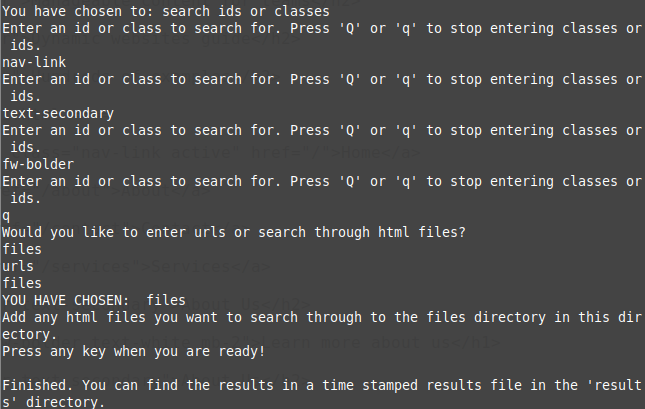
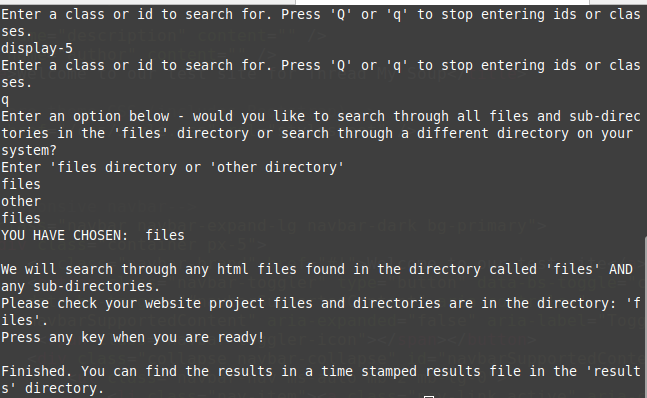
File traverse version added

Changed region(s): [[0.0, 0.0, 1.0, 1.0], [0.6512, 0.995, 0.6822, 1.0]]

diff --git a/classes/filesearcher.py b/classes/filesearcher.py
@@ -3,13 +3,12 @@ from classes.helper.threadstarter import ThreadStarter
 import os
 
 class FileSearcher:
-    def __init__(self, main_inputs_menu, items_to_search_for, directory_to_search="files directory"):
+    def __init__(self, menu_option, items_to_search_for, directory_to_search="files"):
         self.file_handler = FileHandler()
         self.thread_starter = ThreadStarter()
-
         self.directory_to_search = directory_to_search
-
-        self.main_inputs_menu = main_inputs_menu
+        self.menu_option = menu_option
+        self.items_to_search_for = items_to_search_for
 
         self.print_add_files_message()
 
@@ -18,41 +17,49 @@ class FileSearcher:
         else:
             self.files = self.file_handler.return_files_from_other_dir_or_close_program(self.directory_to_search)
 
-        self.items_to_search_for = items_to_search_for
-
         self.file_handler.check_exists_or_make_results_dir()
         self.results_file_name = self.file_handler.create_timestamped_results_file()
 
         self.thread_starter.start_threads(self.search, self.files)
         self.print_search_finished_message()
 
-    def print_add_files_message(self):
-        print(f"\nWe will search through any html files found in the directory called '{self.directory_to_search}' AND any sub-directories.")
-        print(f"Please check your website project files and directories are in the directory: '{self.directory_to_search}'.")
-        print("Press any key when you are ready!")
-        any_key = input()
+    def print_error_stop_thread(self, obj, error_message):
+        if obj == False:
+            print(error_message)
+            self.thread_starter.lock.release()
+            return True
+        return False
+
+    def stop_thread_invalid_file(self, file):
+        try:
+            is_file = os.path.isfile(file)
+            if is_file == False:
+                print(f"{file} is not a valid file. Unable to open.")
+                self.thread_starter.lock.release()
+                return True
+            return False
+        except:
+            print(f"{file} is not a valid file. Unable to open.")
+            self.thread_starter.lock.release()
+            return True
+
 
     # Passed to self.thread_starter.start_threads in __init__
     def search(self, file):
         self.thread_starter.lock.acquire()
 
-        if os.path.isfile(file) == False:
-            print(f"{file} is not a valid file. Unable to open.")
-            self.thread_starter.lock.release()
+        if self.stop_thread_invalid_file(file) == True:
             return
-   
-        soup = self.file_handler.parse_file(file)
         
-        if soup == False:
-            print(f"Could not retrieve data from {file} file.")
-            self.thread_starter.lock.release()
-            return
+        soup = self.file_handler.parse_file(file)
 
-        result_lists = self.main_inputs_menu.get_result_lists_based_on_menu_option(soup, self.items_to_search_for)
+        if self.print_error_stop_thread(soup, f"Unable to parse the file {file}") == True:
+            return 
 
-        if result_lists == False:
-            print(f"Could not retrieve items from this file: {file}")
-            self.thread_starter.lock.release()
+        # search functions per menu_option found in classes.helper.elementretriever
+        result_lists = self.menu_option['search_function'](soup, self.items_to_search_for)
+
+        if self.print_error_stop_thread(result_lists, f"Unable to retrieve results from the file: {file}") == True:
             return
                         
         self.file_handler.append_file_results(result_lists, file, self.results_file_name)
@@ -61,4 +68,10 @@ class FileSearcher:
 
     def print_search_finished_message(self):
         print("Finished. You can find the results in a time stamped results file in the 'results' directory.")
+
+    def print_add_files_message(self):
+        print(f"\nWe will search through any html files found in the directory called '{self.directory_to_search}' AND any sub-directories.")
+        print(f"Please check your website project files and directories are in the directory: '{self.directory_to_search}'.")
+        print("Press any key when you are ready!")
+        any_key = input()
 

diff --git a/threadmysoup.py b/threadmysoup.py
@@ -37,11 +37,11 @@ if __name__ == "__main__":
 	args = Args(menu_options)
 	menu_option = args.return_menu_option_or_print_args_incorrect()
 
-	# Which items to search
+	# User inputs words, ids, classes or html tags to search
 	user_input = UserInput(menu_option)
 	items_to_search_for = user_input.ask_user_for_inputs()
 
-	# Option - Search the 'files' dir OR traverse another directory
+	# User chooses which directory to traverse - 'files' dir OR another directory
 	search_files_dir_or_other_dir = user_input.ask_user_for_preference(
 		["files", "other"], 
 		"Enter an option below - would you like to search through all files and sub-directories in the 'files' directory or search through a different directory on your system?\nEnter 'files directory or 'other directory'"

diff --git a/classes/helper/filehandler.py b/classes/helper/filehandler.py
@@ -20,7 +20,7 @@ class FileHandler:
 
     def parse_file(self, file_name):
         try:
-            with open(file_name, 'r') as file:
+            with open(file_name, "r") as file:
                 soup = BeautifulSoup(file.read(), "html.parser")
                 return soup
         except:
@@ -112,4 +112,5 @@ class FileHandler:
     def clear_temp_file(self):
         with open("temp.txt", "w") as file:
             file.write("")
+
 

diff --git a/classes/userinput.py b/classes/userinput.py
@@ -1,0 +1,9 @@
+from classes.base.userinputbase import UserInputBase
+
+class UserInput(UserInputBase):
+    def __init__(self, option):
+        self.option = option
+        super(UserInput, self).__init__(
+            option['enter_input_message'],
+            option['blank_input_message']
+        )

diff --git a/README.md b/README.md
@@ -1,44 +1,42 @@
 # Thread My Soup
 
 ## INTRO
-This handy tool lets users search for words or phrases, class or ids and search for and retrieve any html element in urls from their live websites or from any number of html files, using the requests, Beautiful Soup and Threading modules.
+This handy tool lets users search for and retrieve words or phrases, classes or ids and any html elements from any number of html files, using the Beautiful Soup and Threading modules.
+
+Imagine you wanted to traverse through the directory storing all of your web development projects checking a specific html element, checking the spelling of a word, such as an address or customer name, or even inspecting elements with a specific id or class name. This program helps you to find specific elements from a large number of files by traversing large directories on your system.
 
 All results are saved into the results directory in a timestamped results file.
 
 ## FEATURES
 ### Menu
 - Args - the first menu allows the user to run the program with args to search words, search for classes or ids or search for specific html tags or elements.
-- The second part of the menu asks the user to enter inputs to search for, based upon their choice from the main args menu above.
-- The final part of the menu asks the user to search through files or urls and then either prompts the user to ensure they have files in the 'files' dir or prompts the user to enter mutiple urls to search through.
+- The second part of the menu asks the user to search through a directory called 'files' or the user can input any file on their system to traverse through every html file looking for the given elements.
+- The final part of the menu asks the user to input the name of any directory on their system that they wish to search through to find elements. 
 
-### Base classes (inheritance)
-- The 'MainInputsMenu' and 'UrlInputsMenu' classes inherit from the 'UrlInputBase' class.
+### Base classes 
+- The 'UserInputBase' class is inherited by the 'UserInput' class which is instantiated in the main 'threadmysoup.py' file, giving the user the menu options required to choose type of search and where to search.
 
-### Helper classes (composition)
-- Instances of the helper classes are all created and used by the 'FileSearcher', 'UrlSearcher' and 'Args' classes.
-- Methods from the helper classes 'ElementFinder', 'ThreadStarter', 'CommandLineArgs' and 'UrlHandler' are used in multiple classes allowing for code re-use.
+### Helper classes
+- Instances of the helper classes are all created and used by the 'FileSearcher' and 'Args' classes.
+- Methods from the helper classes 'ElementFinder', 'ThreadStarter', 'CommandLineArgs' and 'File Handler' are used in multiple classes allowing for code re-use.
 
 - The idea is to allow extension of the program by having loosely coupled relationships between classes.
 
 ### Extendable
-The program can be extended to add a new menu option and a search html method added by extending:
-- Args
-  - A new args menu option can be added to the 'menu_options' dictionary
+The program can be extended to add a new menu option in the 'menu_options' dictionary in the 'thread_soup.py' file.
+A new method can be added to the 'ElementFinder class'. (See below)
 
-- ElementFinder 
-  - A new method can be added to retrieve any type of filtered results from an html page or file.
+![mainmenupage](https://github.com/richardgourley/thread-my-soup/blob/main/screenshots/threadmysoupmainmenu.png)
 
-- MainInputsMenu
-  - The new menu option can be added to the init method.
-  - The new menu option can be updated in the 'get_result_lists_based_on_menu_option' method.
+- The preferences option in 'threadmysoup.py' could easily be extended to use the requests library and find and check elements from the users live websites.
 
 ### Search
 - The search utilizes threading to search multiple urls at the same time.
-- The search uses the requests and BeautifulSoup libraries.
+- The search uses the BeautifulSoup library.
 
 ### Results File
 - A time and date stamped results file is added to a 'results' directory after every search.
-- There is a ===END OF URL=== or a ==== END OF FILE==== marking to separate results from each url or file.
+- There is a ==== END OF FILE/ file name ==== marking to separate results.
 
 ## SCREENSHOTS
 
